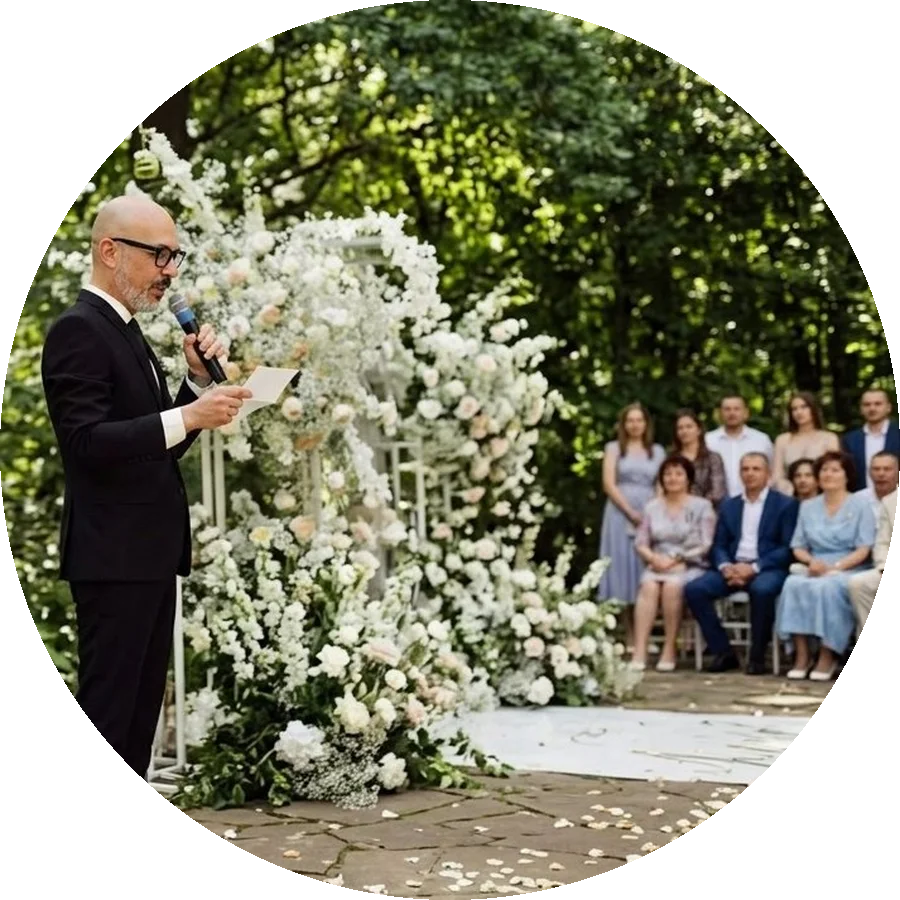
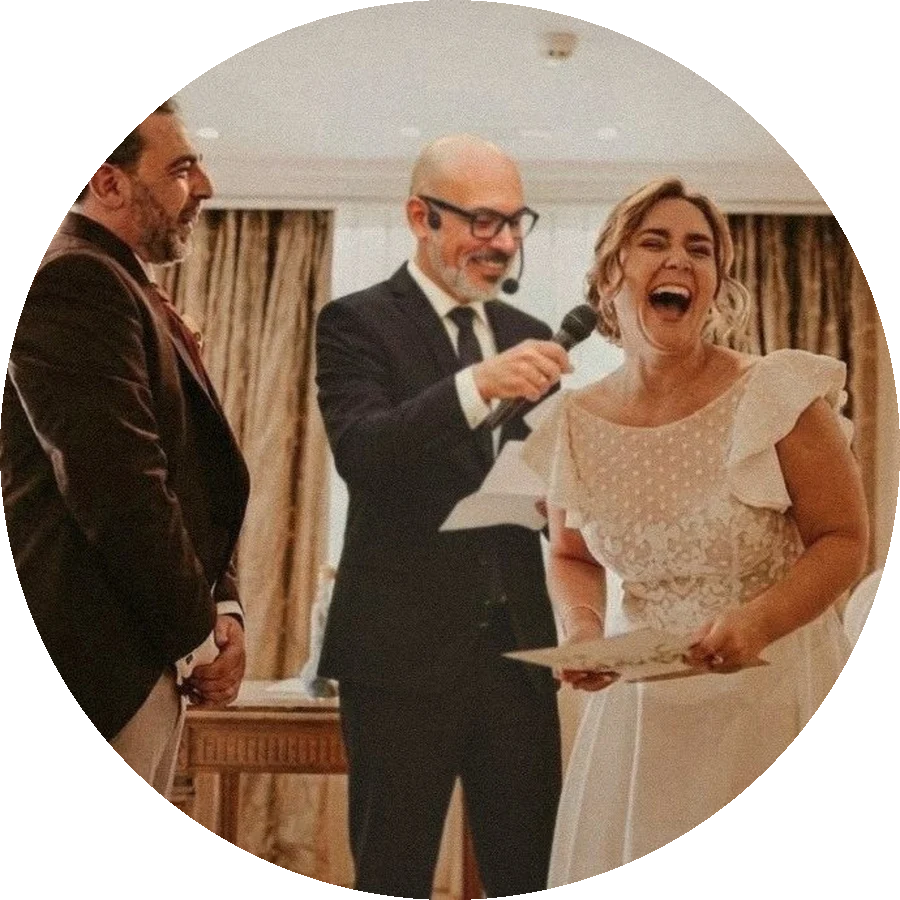
Bodas: foto del maestro de ceremonias con los novios arriba y la del jardín abajo
Claude-Session: https://claude.ai/code/session_01Kpin3hdFHnDy4k9TLXdm2B

diff --git a/celebraciones/bodas.html b/celebraciones/bodas.html
@@ -386,7 +386,7 @@ footer ul{display:flex;flex-wrap:wrap;gap:8px 20px;list-style:none}footer a{text
 
 <main>
 <section class="oh-hero">
-  <div class="oh-img"><picture><source media="(max-width:639px)" srcset="/images/bodas/boda-ceremonia-jardin.jpg"><img src="/images/celebraciones/bodas-circulo.webp" alt="Maestro de ceremonias oficiando una boda en el jardín" fetchpriority="high"/></picture><div class="oh-grad"></div></div>
+  <div class="oh-img"><picture><source media="(max-width:639px)" srcset="/images/bodas/boda-maestro-risas-final.jpg"><img src="/images/celebraciones/bodas-circulo.webp" alt="Maestro de ceremonias haciendo reír a los novios en su boda" fetchpriority="high"/></picture><div class="oh-grad"></div></div>
   <div class="oh-text">
     <h1 class="oh-h1">Mago para bodas y maestro de ceremonias</h1>
     <p class="oh-h2">La boda de la que hablarán durante años.</p>
@@ -405,7 +405,7 @@ footer ul{display:flex;flex-wrap:wrap;gap:8px 20px;list-style:none}footer a{text
 <section class="w sec" id="como-va" style="padding-top:20px">
   <div style="text-align:center;margin-bottom:0"><span style="display:inline-flex;align-items:center;justify-content:center;width:52px;height:52px;border-radius:50%;background:var(--terra);color:#fff;font-family:'Fraunces',serif;font-weight:700;font-size:22px">1</span>
   </div><div class="sh" style="margin-bottom:38px"><h2>Quien oficia <em>vuestra ceremonia</em></h2><p>Vuestros invitados ven llegar a un maestro de ceremonias. Traje, carpeta, voz tranquila. Nadie les ha dicho que además es mago. La ceremonia empieza con toda la normalidad del mundo, y a los pocos minutos empieza a pasar algo que no encaja. Y vuelve a pasar. Y otra vez. Y nadie entiende por qué.</p></div>
-  <img src="/images/bodas/boda-maestro-risas.jpg" alt="Maestro de ceremonias oficiando una boda con magia" loading="lazy" style="width:100%;max-height:520px;object-fit:cover;object-position:center 40%;border-radius:26px;margin:0 0 30px;box-shadow:0 8px 28px rgba(43,33,24,.09)"/>
+  <img src="/images/bodas/boda-ceremonia-jardin.jpg" alt="Maestro de ceremonias oficiando una boda en el jardín" loading="lazy" style="width:100%;max-height:520px;object-fit:cover;object-position:center 45%;border-radius:26px;margin:0 0 30px;box-shadow:0 8px 28px rgba(43,33,24,.09)"/>
   <div style="display:grid;grid-template-columns:repeat(3,1fr);gap:20px"><div style="background:#FFF8EE;border-radius:24px;padding:30px 28px;box-shadow:0 8px 24px rgba(43,33,24,.07)"><p style="font-size:12px;letter-spacing:.16em;text-transform:uppercase;color:var(--muted);margin:0 0 10px">Antes</p><h3 style="font-size:21px;line-height:1.2;margin:0 0 10px">Nos contáis quiénes sois</h3><p style="color:var(--muted);font-size:15px;line-height:1.6;margin:0">Una reunión sin prisa: cómo os conocisteis, quién va a leer y qué historias se pueden contar y cuáles no. Con eso escribimos la ceremonia entera y os la pasamos para que la cambiéis a vuestro gusto.</p></div><div style="background:#FFF8EE;border-radius:24px;padding:30px 28px;box-shadow:0 8px 24px rgba(43,33,24,.07)"><p style="font-size:12px;letter-spacing:.16em;text-transform:uppercase;color:var(--muted);margin:0 0 10px">El día</p><h3 style="font-size:21px;line-height:1.2;margin:0 0 10px">La oficiamos nosotros</h3><p style="color:var(--muted);font-size:15px;line-height:1.6;margin:0">De la entrada al «ya estáis casados», con el tono que nos hayáis pedido. Si queréis que la gente se ría, se ríe. Si queréis que se emocione, se emociona. Y los nombres se dicen bien.</p></div><div style="background:#FFF8EE;border-radius:24px;padding:30px 28px;box-shadow:0 8px 24px rgba(43,33,24,.07)"><p style="font-size:12px;letter-spacing:.16em;text-transform:uppercase;color:var(--muted);margin:0 0 10px">El secreto</p><h3 style="font-size:21px;line-height:1.2;margin:0 0 10px">Nadie sabe que es mago</h3><p style="color:var(--muted);font-size:15px;line-height:1.6;margin:0">Y vosotros no se lo vais a decir. Por eso, cuando las cosas empiezan a pasar, nadie las lee como un truco: las viven como algo que está ocurriendo de verdad en vuestra boda. Esa es la diferencia, y no se puede repetir dos veces.</p></div></div>
   <p style="max-width:720px;margin:30px auto 0;padding:20px 26px;background:#F9F4EC;border-left:3px solid #8a6425;border-radius:14px;color:var(--muted);font-size:15px;line-height:1.6"><b style="color:var(--ink)">La que celebramos es la ceremonia simbólica</b>, la que viven vuestros invitados en la finca. El papeleo civil, el que tiene validez legal, se firma aparte en el juzgado o en el ayuntamiento, normalmente unos días antes y con cuatro personas delante. La boda que vais a recordar es la otra.</p>
 </section>
